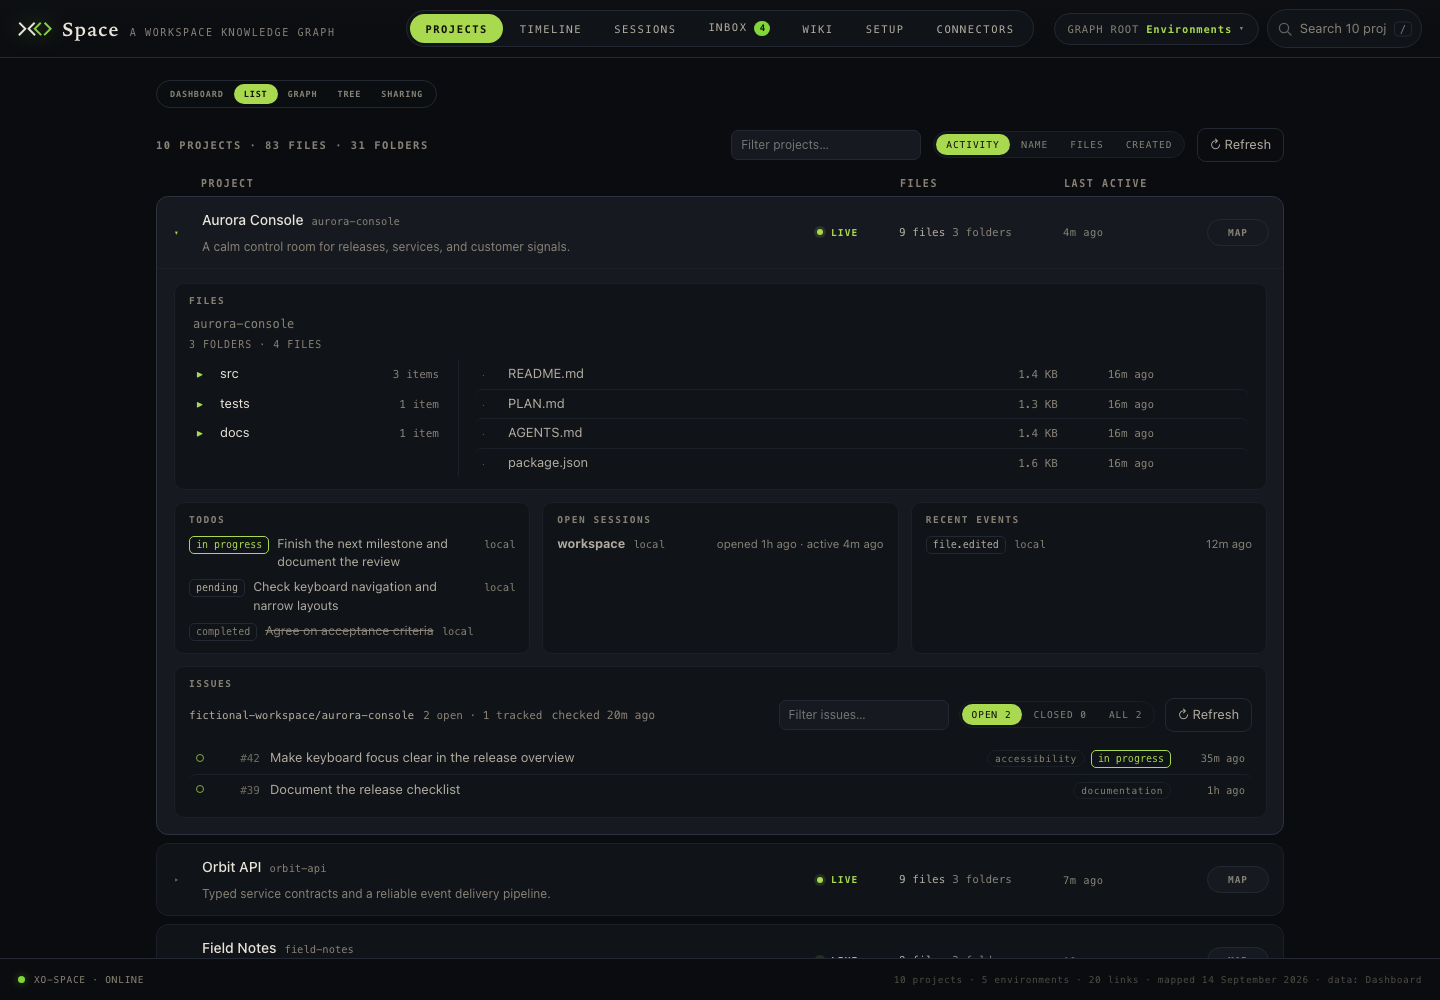
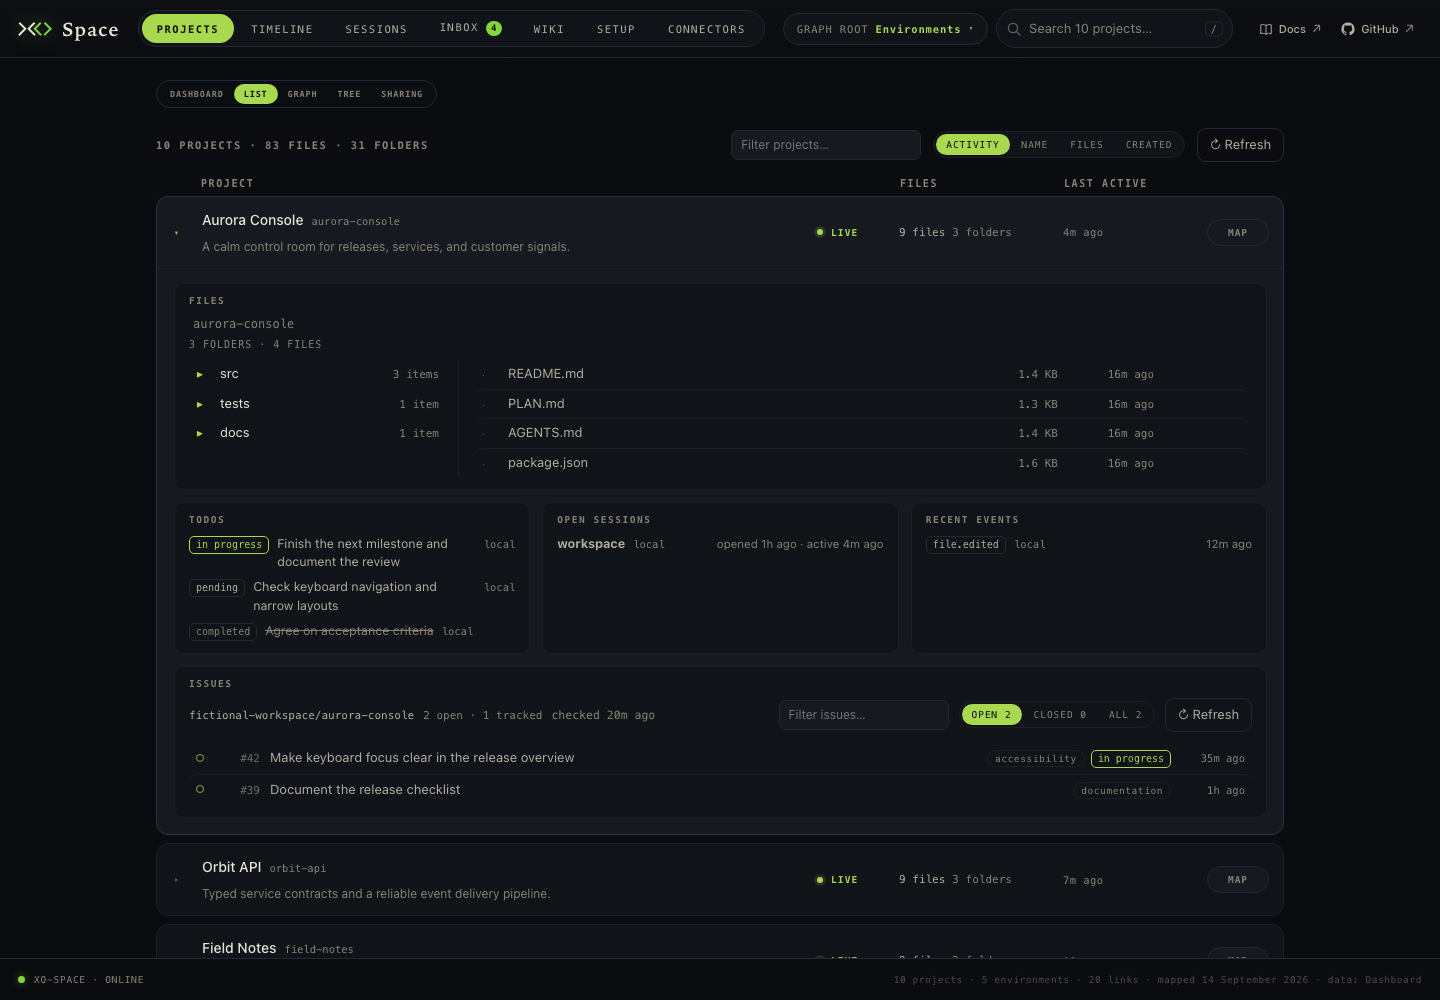
Document compact Space Wiki and refresh UI screenshots

diff --git a/scripts/space-ui-preview/README.md b/scripts/space-ui-preview/README.md
@@ -5,7 +5,10 @@ These screenshots show the actual, unmodified `space_ui` browser application fro
 by a local Python fixture server. They are browser captures, not visual mockups.
 
 The checked-in images were captured from source revision
-`522111900fa4224ef3914192b9eb78048fffb5e3`. `capture-report.json` records that revision,
+`5eb122b84dfdf1d3b7a2a237c366579045ac7d29` on `codex/compact-wiki-doc-links`,
+which adds the compact Wiki and global documentation/repository links to
+development revision `522111900fa4224ef3914192b9eb78048fffb5e3`.
+`capture-report.json` records the captured revision,
 every source UI asset hash, screenshot descriptions, PNG hashes and byte sizes,
 and browser validation results. It contains no local checkout paths.
 
@@ -44,6 +47,14 @@ Sharing, both Timeline modes, all five Sessions subviews and session details,
 Inbox, Wiki, Setup and native runtime sources, Quirq state, and Connectors with
 polling and action drawers. All navigation, expansion, scrolling and selection
 uses real browser interactions; the script does not alter application DOM or CSS.
+
+Every capture checks the global Docs and GitHub links. After saving the images,
+the script verifies the compact Wiki's nine topics, fifteen documentation links,
+quick-start actions, and keyboard shortcut at 1440, 390 and 320 pixels. It checks
+that external links open a new tab and preserve the current Space view. Those
+destination requests receive a minimal test response, so this check does not
+contact the hosted documentation or GitHub and does not validate their published
+content. Screenshots contain only the real local Space UI.
 
 Browser time, timezone and the graph's random seed are fixed. The script waits for
 data and graph layout, verifies expected project/connector counts and selected
